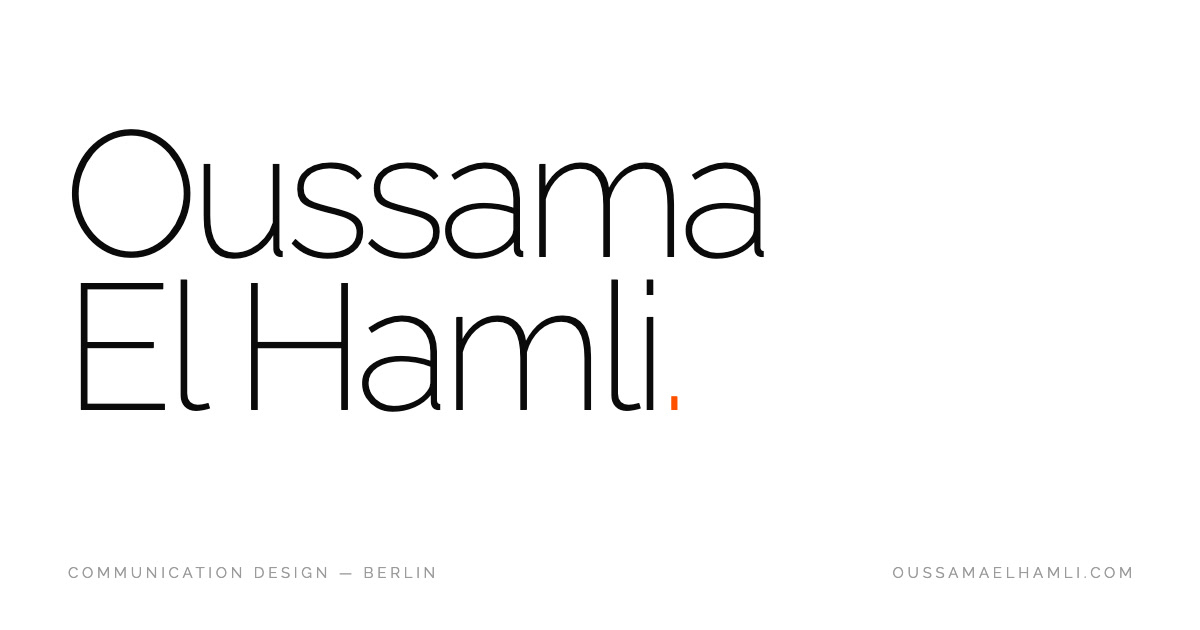
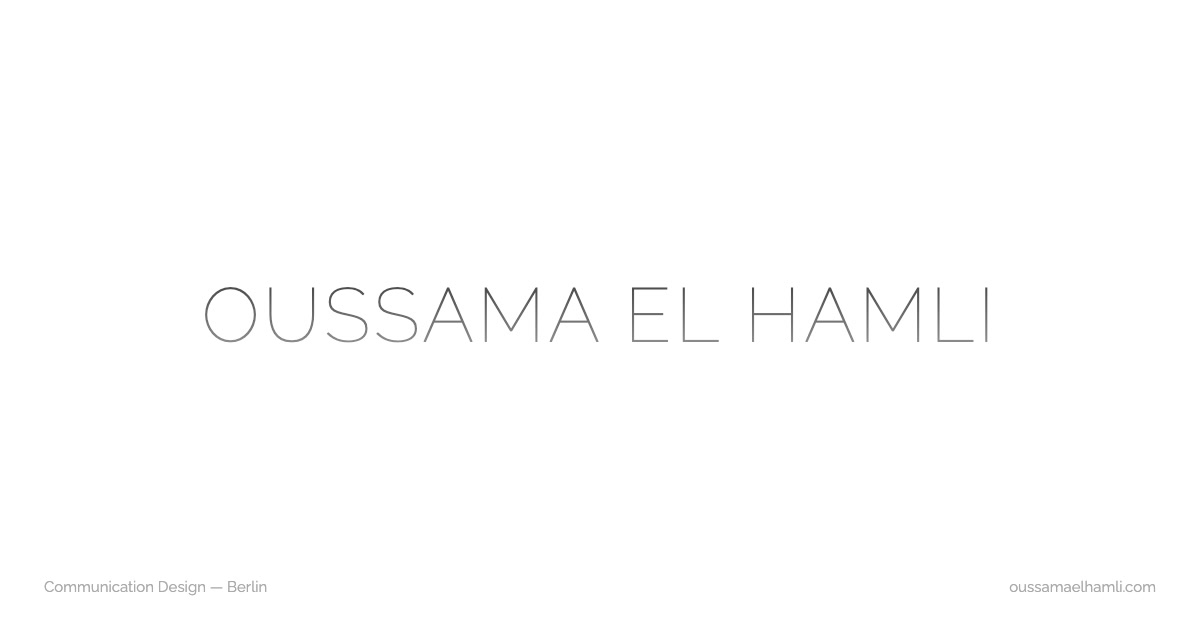
Neue Teile in die Formensprache der Seite zurückgeholt, DANGEROUS bei Info
- Orange-Akzent, Punkte, Riesen-Titel, Masken und großes CTA-Finale entfernt (Skill-Sprache, nicht die der Seite)
- Titel, Intro, Nächstes Projekt und TikTok-Zahlen jetzt wie die Navigation: Raleway 100, Versal, Grauverlauf
- Bühnen auf Weiß/#f7f7f7 mit Punktraster wie im Archiv, Schatten und Radien wie die Karten
- Raster blendet wieder wie vorher von unten ein; Textschatten an Close/Projektname wie im Original
- Info: Junior Art Director, DANGEROUS Werbeagentur — 2026–
- Vorschaubild im Stil der Navigation

diff --git a/index.html b/index.html
@@ -36,11 +36,11 @@ img, video { -webkit-user-drag:none; user-drag:none; pointer-events:none; }
 
 #cur {
   position:fixed;z-index:9999;width:8px;height:8px;border-radius:50%;
-  background:var(--accent);pointer-events:none;transform:translate(-50%,-50%);
+  background:#0a0a0a;pointer-events:none;transform:translate(-50%,-50%);
   transition:width .18s,height .18s,background .15s,border .15s;top:0;left:0;
 }
 #cur.drag{width:44px;height:44px;background:transparent;border:1.5px solid #0a0a0a;}
-#cur.link{width:28px;height:28px;background:transparent;border:1.5px solid var(--accent);}
+#cur.link{width:28px;height:28px;background:transparent;border:1.5px solid #0a0a0a;}
 #cur.light{background:#fff;}
 #cur.light.drag{background:transparent;border-color:#fff;}
 #cur.light.link{background:transparent;border-color:#fff;}
@@ -74,6 +74,7 @@ nav a:hover{opacity:.5;}
   transition:opacity .4s ease, transform .4s ease;
   display:inline-block;vertical-align:middle;
   -webkit-text-fill-color:#2a2a2a;background:none;
+  text-shadow:0 0 12px rgba(255,255,255,0.8), 0 0 24px rgba(255,255,255,0.6);
 }
 #nav-project.visible{opacity:1;transform:translateY(0);}
 #clock{font-family:"Courier New",monospace;font-size:clamp(10px, 1.1vw, 16px);color:#aaa;letter-spacing:.05em;transition:opacity 0.3s ease;}
@@ -87,7 +88,7 @@ footer {
   display:block;font-size:10px;color:#aaa;text-decoration:none;line-height:1.9;
   pointer-events:all;transition:color .2s;
 }
-.f-left a:hover,.f-right a:hover{color:var(--accent);}
+.f-left a:hover,.f-right a:hover{color:#0a0a0a;}
 .f-right{text-align:right;}
 
 #scene {
@@ -151,10 +152,10 @@ footer {
 .ov-grid.visible{opacity:1;transform:translateY(0);}
 .ov-grid-item {
   overflow:hidden;background:#e4e4e0;position:relative;
+  opacity:0;transform:translateY(40px);
+  transition:opacity 0.9s cubic-bezier(0.2,1,0.3,1), transform 0.9s cubic-bezier(0.2,1,0.3,1);
 }
-/* Bild öffnet sich per Maske (Maske am Bild, damit die Sichtbarkeits-Erkennung am Rahmen funktioniert) */
-.ov-grid-item > img,.ov-grid-item > video{clip-path:inset(100% 0 0 0);transform:scale(1.14);transition:clip-path 1.15s var(--ease),transform 1.5s var(--ease);}
-.ov-grid-item.in-view > img,.ov-grid-item.in-view > video{clip-path:inset(0 0 0 0);transform:none;}
+.ov-grid-item.in-view{opacity:1;transform:translateY(0);}
 .ov-grid-item.full{grid-column:1/-1;}
 .ov-grid-item img,.ov-grid-item video{width:100%;height:auto;display:block;}
 
@@ -174,9 +175,9 @@ footer {
   font-size:12px;letter-spacing:.12em;text-transform:uppercase;
   background:none;border:none;font-family:"Raleway",sans-serif;font-weight:300;
   color:#2a2a2a;cursor:none;display:none;pointer-events:all;
+  text-shadow:0 0 12px rgba(255,255,255,0.8), 0 0 24px rgba(255,255,255,0.6);
 }
 #close-btn.on{display:block;}
-#close-btn:hover{color:var(--accent);}
 
 /* ── Info Layout ── */
 .ov-info-layout{
@@ -234,70 +235,76 @@ footer {
   body:has(#close-btn.on) .nav-mid { visibility: hidden; }
 }
 
-:root{--accent:#FF4F00;--ease:cubic-bezier(.19,1,.22,1);}
+/* ── Erweiterungen 10/2026 – in der Formensprache der Seite ──
+   Typo wie die Navigation (Raleway 100, Versal, Grauverlauf), Labels 9px #b0b0b0,
+   Flächen Weiß / #f7f7f7 mit Punktraster wie im Archiv, Schatten wie die Karten,
+   Bewegung: Einblenden von unten mit cubic-bezier(0.2,1,0.3,1). */
 html,body{overscroll-behavior:none;}
 
-/* Großer Projekttitel – Zeilen kommen aus der Maske */
-.ov-title{font-family:"Raleway",sans-serif;font-weight:200;font-size:clamp(54px,10.5vw,176px);line-height:.86;letter-spacing:-.045em;color:#0a0a0a;margin:0 0 44px;}
-.ov-title .ln{display:block;overflow:hidden;padding:0 .04em .08em 0;}
-.ov-title .ln > span{display:block;transform:translateY(108%);transition:transform 1.15s var(--ease);}
-.ov-title .ln:nth-child(2) > span{transition-delay:.09s;}
-.ov-title .dot{color:var(--accent);}
-.ov-title.in .ln > span{transform:none;}
+/* Projekttitel im Stil des Namens oben links */
+.ov-title{font-family:"Raleway",sans-serif;font-weight:100;font-size:clamp(28px,4.4vw,64px);line-height:1.08;letter-spacing:.05em;text-transform:uppercase;margin:0 0 36px;}
+.ov-title .ln{display:block;}
+.ov-title .ln > span{display:inline-block;background:linear-gradient(to bottom,#3a3a3a 0%,#a0a0a0 100%);-webkit-background-clip:text;-webkit-text-fill-color:transparent;background-clip:text;
+  opacity:0;transform:translateY(40px);transition:opacity .9s cubic-bezier(0.2,1,0.3,1),transform .9s cubic-bezier(0.2,1,0.3,1);}
+.ov-title .ln:nth-child(2) > span{transition-delay:.08s;}
+.ov-title.in .ln > span{opacity:1;transform:none;}
 
-/* Finale am Ende jedes Projekts */
-.ov-finale{position:relative;z-index:11;background:#fff;padding:16vh 36px 40px;}
-.ov-lbl{font-size:10px;letter-spacing:.25em;text-transform:uppercase;color:#aaa;font-family:"Raleway",sans-serif;}
-.ov-next{display:block;font-family:"Raleway",sans-serif;font-weight:200;font-size:clamp(50px,10vw,168px);line-height:.86;letter-spacing:-.045em;color:#0a0a0a;text-decoration:none;cursor:none;margin:16px 0 16vh;transition:color .35s var(--ease);}
-.ov-next:hover{color:var(--accent);}
-.ov-next .arr{display:inline-block;transition:transform .35s var(--ease);}
-.ov-next:hover .arr{transform:translateX(.12em);}
-.ov-cta{display:grid;grid-template-columns:1fr auto;gap:24px;align-items:end;border-top:1px solid #e6e6e6;padding-top:28px;}
-.ov-cta p{margin:0;font-family:"Raleway",sans-serif;font-weight:300;font-size:13px;color:#888;line-height:1.8;}
-.ov-mail{font-family:"Raleway",sans-serif;font-weight:200;font-size:clamp(24px,4vw,58px);letter-spacing:-.03em;color:#0a0a0a;text-decoration:none;cursor:none;border-bottom:2px solid transparent;transition:border-color .4s var(--ease),color .3s;}
-.ov-mail:hover{border-bottom-color:var(--accent);color:var(--accent);}
-.ov-foot{display:flex;justify-content:space-between;margin-top:12vh;font-size:10px;letter-spacing:.15em;text-transform:uppercase;color:#bbb;font-family:"Raleway",sans-serif;}
+/* Abschluss jedes Projekts: wie der Info-Bereich */
+.ov-finale{position:relative;z-index:11;background:#fff;padding:120px 36px 80px;}
+.ov-lbl{display:block;font-size:9px;letter-spacing:.15em;text-transform:uppercase;color:#b0b0b0;margin-bottom:16px;font-family:"Raleway",sans-serif;}
+.ov-next{display:inline-block;font-family:"Raleway",sans-serif;font-weight:100;font-size:clamp(24px,3.2vw,44px);letter-spacing:.05em;text-transform:uppercase;line-height:1.1;text-decoration:none;cursor:none;margin:0 0 96px;
+  background:linear-gradient(to bottom,#3a3a3a 0%,#a0a0a0 100%);-webkit-background-clip:text;-webkit-text-fill-color:transparent;background-clip:text;transition:opacity .2s;}
+.ov-next:hover{opacity:.5;}
+.ov-cta{display:grid;grid-template-columns:repeat(3,180px);column-gap:0;row-gap:32px;}
+.ov-cta > div:first-child{grid-column:span 2;}
+.ov-mail{display:block;font-size:13px;font-weight:700;color:#0a0a0a;text-decoration:none;cursor:none;transition:opacity .2s;font-family:"Raleway",sans-serif;}
+.ov-mail:hover{opacity:.5;}
 
-/* Intro: der Name als Typo-Moment */
-#intro{position:fixed;inset:0;z-index:950;background:#fff;display:flex;flex-direction:column;justify-content:center;padding:0 4vw;pointer-events:none;transition:opacity .5s ease;}
-#intro .ov-title{font-size:clamp(64px,17vw,320px);margin:0;}
-#intro .meta{position:absolute;left:4vw;right:4vw;bottom:28px;display:flex;justify-content:space-between;font-size:10px;letter-spacing:.25em;text-transform:uppercase;color:#aaa;font-family:"Raleway",sans-serif;}
-#intro.out .ov-title .ln > span{transform:translateY(-108%);transition-duration:.55s;transition-delay:0s;}
+/* Intro: der Name wie in der Navigation, nur größer */
+#intro{position:fixed;inset:0;z-index:950;background:#fff;display:flex;align-items:center;justify-content:center;pointer-events:none;transition:opacity .5s ease;}
+#intro .ov-title{font-size:clamp(26px,5.2vw,80px);margin:0;text-align:center;}
+#intro .meta{position:absolute;left:36px;right:36px;bottom:20px;display:flex;justify-content:space-between;font-size:10px;color:#aaa;font-family:"Raleway",sans-serif;}
+#intro.out .ov-title .ln > span{opacity:0;transform:translateY(-20px);transition-duration:.45s;transition-delay:0s;}
 #intro.gone{opacity:0;}
 
-/* Georgia Website: Ebenen-Bühne */
-.gw-stage{position:relative;z-index:10;height:260vh;background:#0a0a0a;}
-.gw-sticky{position:sticky;top:0;height:100vh;overflow:hidden;perspective:1800px;}
-.gw-layer{position:absolute;left:50%;top:50%;width:min(60vw,920px);box-shadow:0 30px 80px rgba(0,0,0,.55);will-change:transform;}
-.gw-layer img{width:100%;display:block;}
-.gw-cap{position:absolute;left:36px;right:36px;bottom:28px;display:flex;justify-content:space-between;font-size:10px;letter-spacing:.25em;text-transform:uppercase;color:#777;font-family:"Raleway",sans-serif;}
-.gw-cap a{color:#fff;text-decoration:none;cursor:none;transition:color .3s;}
-.gw-cap a:hover{color:var(--accent);}
+/* Gemeinsamer Grund der Bühnen: Punktraster wie im Archiv */
+.gw-stage,.kc-stage{position:relative;z-index:10;background:#f7f7f7;background-image:radial-gradient(circle,#d0d0d0 1px,transparent 1px);background-size:32px 32px;}
 
-/* TikTok: Zahlen-Bühne + Handyformate */
-.tt-stage{position:relative;z-index:10;background:#fff;padding:10vh 36px 8vh;}
-.tt-big{font-family:"Raleway",sans-serif;font-weight:200;font-size:clamp(54px,13vw,230px);line-height:.9;letter-spacing:-.05em;color:#0a0a0a;font-variant-numeric:tabular-nums;white-space:nowrap;}
-.tt-row{display:grid;grid-template-columns:repeat(4,1fr);gap:24px;margin-top:8vh;border-top:1px solid #e6e6e6;padding-top:24px;}
-.tt-num{font-family:"Raleway",sans-serif;font-weight:200;font-size:clamp(26px,3.4vw,52px);letter-spacing:-.03em;color:#0a0a0a;font-variant-numeric:tabular-nums;}
-.tt-phones{position:relative;z-index:10;background:#fff;display:grid;grid-template-columns:repeat(auto-fill,minmax(180px,1fr));gap:14px;padding:0 36px 6vh;}
-.tt-phone{position:relative;aspect-ratio:9/16;border-radius:18px;overflow:hidden;background:#111;}
+/* Georgia Website: Ebenen fächern sich auf */
+.gw-stage{height:260vh;}
+.gw-sticky{position:sticky;top:0;height:100vh;overflow:hidden;perspective:1800px;}
+.gw-layer{position:absolute;left:50%;top:50%;width:min(60vw,920px);border-radius:3px;overflow:hidden;box-shadow:0 4px 24px rgba(0,0,0,.12),0 1px 4px rgba(0,0,0,.08);will-change:transform;}
+.gw-layer img{width:100%;display:block;}
+.gw-cap{position:absolute;left:36px;right:36px;bottom:20px;display:flex;justify-content:space-between;font-size:10px;color:#aaa;font-family:"Raleway",sans-serif;}
+.gw-cap a{color:#aaa;text-decoration:none;cursor:none;transition:color .2s;}
+.gw-cap a:hover{color:#0a0a0a;}
+
+/* TikTok: Zahlen wie die Typo der Seite, Videos als Karten im Handyformat */
+.tt-stage{position:relative;z-index:10;background:#fff;padding:80px 36px 64px;}
+.tt-big{font-family:"Raleway",sans-serif;font-weight:100;font-size:clamp(40px,8vw,120px);line-height:1;letter-spacing:.02em;font-variant-numeric:tabular-nums;white-space:nowrap;
+  background:linear-gradient(to bottom,#3a3a3a 0%,#a0a0a0 100%);-webkit-background-clip:text;-webkit-text-fill-color:transparent;background-clip:text;}
+.tt-row{display:grid;grid-template-columns:repeat(4,180px);gap:24px 0;margin-top:56px;}
+.tt-num{font-family:"Raleway",sans-serif;font-weight:200;font-size:22px;letter-spacing:-.02em;color:#0a0a0a;font-variant-numeric:tabular-nums;margin-bottom:4px;}
+.tt-row .ov-lbl{margin:0;}
+.tt-phones{position:relative;z-index:10;background:#fff;display:grid;grid-template-columns:repeat(auto-fill,minmax(180px,1fr));gap:14px;padding:0 36px 40px;}
+.tt-phone{position:relative;aspect-ratio:9/16;border-radius:3px;overflow:hidden;background:#e4e4e0;box-shadow:0 4px 24px rgba(0,0,0,.12),0 1px 4px rgba(0,0,0,.08);}
 .tt-phone video{position:absolute;inset:0;width:100%;height:100%;object-fit:cover;}
 
-/* Kalender: echtes Format, Blätter fallen beim Scrollen */
-.kc-stage{position:relative;z-index:10;background:#efe8de;}
+/* Kalender: echtes Format, Blätter klappen beim Scrollen hoch */
 .kc-sticky{position:sticky;top:0;height:100vh;display:flex;align-items:center;justify-content:center;perspective:2200px;overflow:hidden;}
 .kc-cal{position:relative;height:min(74vh,122vw);aspect-ratio:1132/1600;transform-style:preserve-3d;}
-.kc-page{position:absolute;inset:0;transform-origin:50% 0;backface-visibility:hidden;-webkit-backface-visibility:hidden;box-shadow:0 18px 40px rgba(0,0,0,.18);background:#fff;will-change:transform;}
+.kc-page{position:absolute;inset:0;transform-origin:50% 0;backface-visibility:hidden;-webkit-backface-visibility:hidden;border-radius:3px;overflow:hidden;box-shadow:0 4px 24px rgba(0,0,0,.12),0 1px 4px rgba(0,0,0,.08);background:#fff;will-change:transform;}
 .kc-page img{width:100%;height:100%;object-fit:cover;display:block;}
 .kc-bind{position:absolute;left:8%;right:8%;top:-10px;height:20px;z-index:50;background:radial-gradient(circle,#2a2a2a 3px,transparent 3.5px) 0 50%/22px 20px repeat-x;}
-.kc-count{position:absolute;left:36px;bottom:28px;font-size:10px;letter-spacing:.25em;text-transform:uppercase;color:#8a7f72;font-family:"Raleway",sans-serif;font-variant-numeric:tabular-nums;}
+.kc-count{position:absolute;left:36px;bottom:20px;font-size:10px;color:#aaa;font-family:"Raleway",sans-serif;font-variant-numeric:tabular-nums;}
 .kc-hero{position:relative;z-index:10;height:100vh;overflow:hidden;}
 .kc-hero img{width:100%;height:100%;object-fit:cover;display:block;}
 
 @media (max-width:600px){
-  .ov-cta{grid-template-columns:1fr;}
+  .ov-cta{grid-template-columns:1fr 1fr;}
+  .ov-cta > div:first-child{grid-column:1/-1;}
   .tt-row{grid-template-columns:1fr 1fr;}
-  .tt-phones{grid-template-columns:1fr 1fr;padding:0 20px 6vh;gap:10px;}
+  .tt-phones{grid-template-columns:1fr 1fr;padding:0 20px 40px;gap:10px;}
   .gw-layer{width:84vw;}
   .ov-finale,.tt-stage{padding-left:20px;padding-right:20px;}
   .gw-cap,.kc-count{left:20px;right:20px;}
@@ -305,8 +312,8 @@ html,body{overscroll-behavior:none;}
 
 @media (prefers-reduced-motion:reduce){
   *,*::before,*::after{transition-duration:.01ms!important;transition-delay:0s!important;animation-duration:.01ms!important;}
-  .ov-grid-item > img,.ov-grid-item > video{clip-path:none;transform:none;}
-  .ov-title .ln > span{transform:none;}
+  .ov-grid-item{opacity:1;transform:none;}
+  .ov-title .ln > span{opacity:1;transform:none;}
 }
 
 </style>
@@ -944,6 +951,8 @@ document.getElementById('infoLink').addEventListener('click',function(e){
     +'<p class="ov-desc" style="font-size:14px;color:#0a0a0a;line-height:1.9;margin-bottom:56px;">With a focus on new forms of spatial and media design. I develop visual concepts and interactive experiences that combine design and technology. With a strong interest in future topics, digital processes, and immersive narratives.</p>'
     +'<div style="margin-bottom:48px;">'
     +'<p style="font-size:9px;letter-spacing:.15em;text-transform:uppercase;color:#b0b0b0;margin-bottom:16px;font-family:Raleway,sans-serif;">Experience</p>'
+    +'<p class="ov-desc" style="margin-bottom:4px;">Junior Art Director</p>'
+    +'<p class="ov-desc" style="color:#b0b0b0;margin-bottom:20px;">DANGEROUS Werbeagentur — 2026–</p>'
     +'<p class="ov-desc" style="margin-bottom:4px;">Graphic & Content Creation</p>'
     +'<p class="ov-desc" style="color:#b0b0b0;margin-bottom:20px;">Scholz & Friends — 2022–2025</p>'
     +'<p class="ov-desc" style="margin-bottom:4px;">Content Creation</p>'
@@ -1220,7 +1229,7 @@ function esc(s){return String(s).replace(/[&<>"]/g,function(c){return {'&':'&amp
 function titleHTML(proj){
   var lines=String(proj.title||'').split('\n');
   return '<h1 class="ov-title">'+lines.map(function(l,i){
-    return '<span class="ln"><span>'+esc(l)+(i===lines.length-1?'<span class="dot">.</span>':'')+'</span></span>';
+    return '<span class="ln"><span>'+esc(l)+'</span></span>';
   }).join('')+'</h1>';
 }
 
@@ -1266,12 +1275,12 @@ function finaleEl(proj){
   var i=PROJECTS.indexOf(proj),next=PROJECTS[(i+1)%PROJECTS.length];
   var f=document.createElement('section');
   f.className='ov-finale';
-  f.innerHTML='<span class="ov-lbl">Next project</span>'
-    +'<a href="#" class="ov-next">'+esc((next.title||'').replace('\n',' '))+' <span class="arr">&rarr;</span></a>'
-    +'<span class="ov-lbl">Available for</span>'
-    +'<div class="ov-cta"><p>Social content for bars &amp; venues<br>Brand identity &amp; motion — Berlin, ongoing or per project</p>'
-    +'<a class="ov-mail" href="mailto:elhamli@outlook.de">elhamli@outlook.de</a></div>'
-    +'<div class="ov-foot"><span>&copy; 2026 Oussama El Hamli</span><span>Berlin</span></div>';
+  f.innerHTML='<span class="ov-lbl">Next Project</span>'
+    +'<a href="#" class="ov-next">'+esc((next.title||'').replace('\n',' '))+' &rarr;</a>'
+    +'<div class="ov-cta"><div><span class="ov-lbl">Available For</span>'
+    +'<p class="ov-desc" style="margin-bottom:4px;">Social Content for Bars &amp; Venues</p>'
+    +'<p class="ov-desc" style="color:#b0b0b0;">Berlin — ongoing or per project</p></div>'
+    +'<div><span class="ov-lbl">Contact</span><a class="ov-mail" href="mailto:elhamli@outlook.de">elhamli@outlook.de</a></div></div>';
   var a=f.querySelector('.ov-next');
   a.addEventListener('click',function(e){e.preventDefault();showProject(next);});
   f.querySelectorAll('a').forEach(function(el){
@@ -1400,7 +1409,7 @@ function startIntro(then){
   try{seen=sessionStorage.getItem('oeh-intro')==='1';sessionStorage.setItem('oeh-intro','1');}catch(e){}
   if(RM||seen){then();return;}
   var el=document.createElement('div');el.id='intro';
-  el.innerHTML=titleHTML({title:'Oussama\nEl Hamli'})+'<div class="meta"><span>Communication Design</span><span>Berlin</span></div>';
+  el.innerHTML=titleHTML({title:'Oussama El Hamli'})+'<div class="meta"><span>Communication Design</span><span>Berlin</span></div>';
   document.body.appendChild(el);
   var h=el.querySelector('.ov-title');
   requestAnimationFrame(function(){requestAnimationFrame(function(){h.classList.add('in');});});
